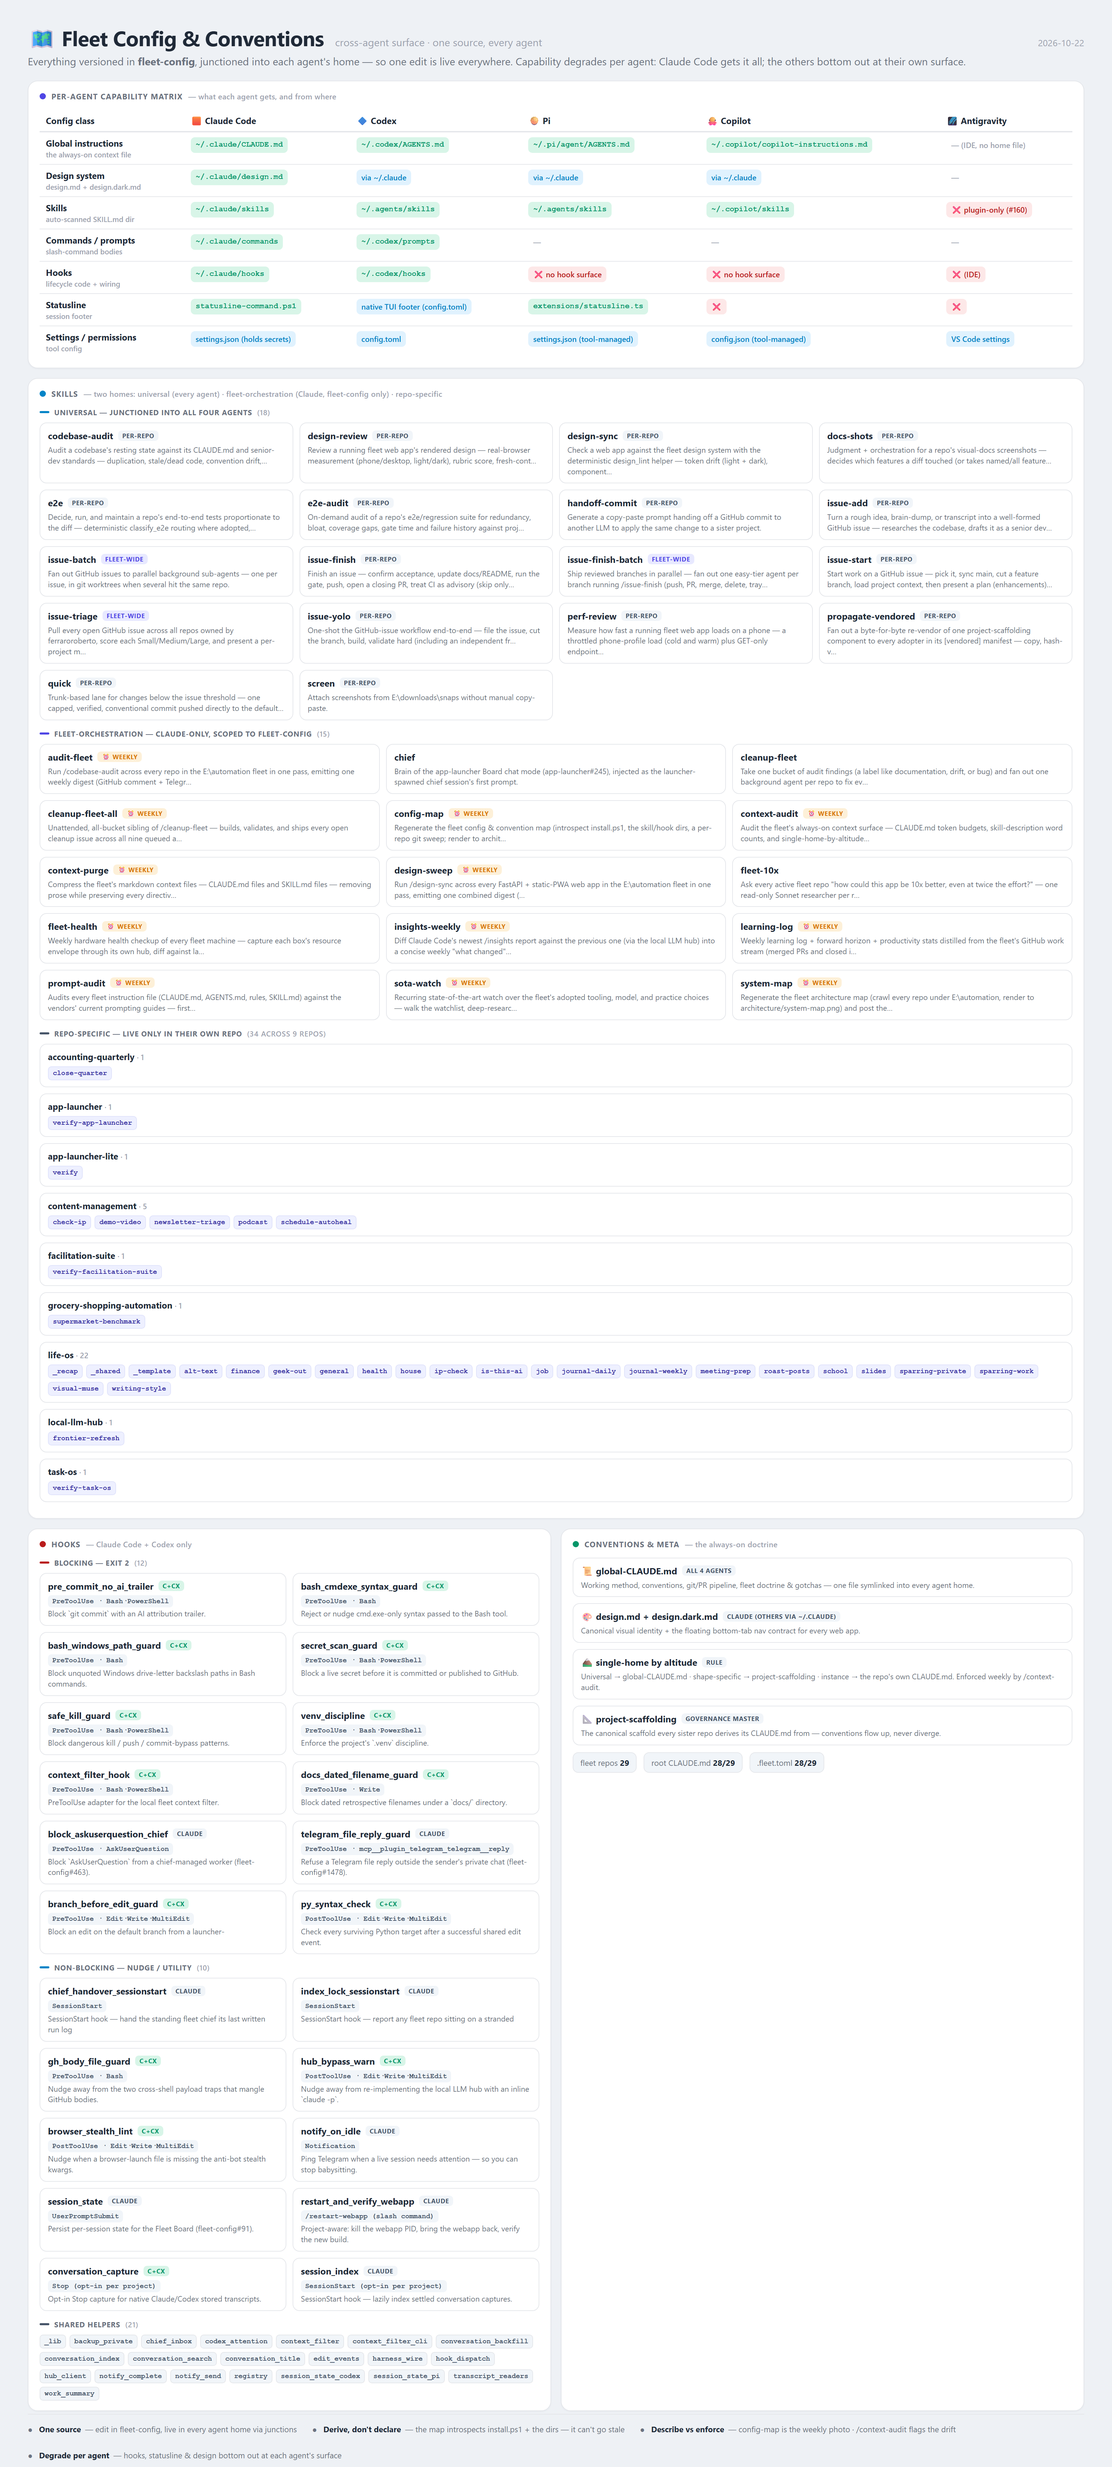
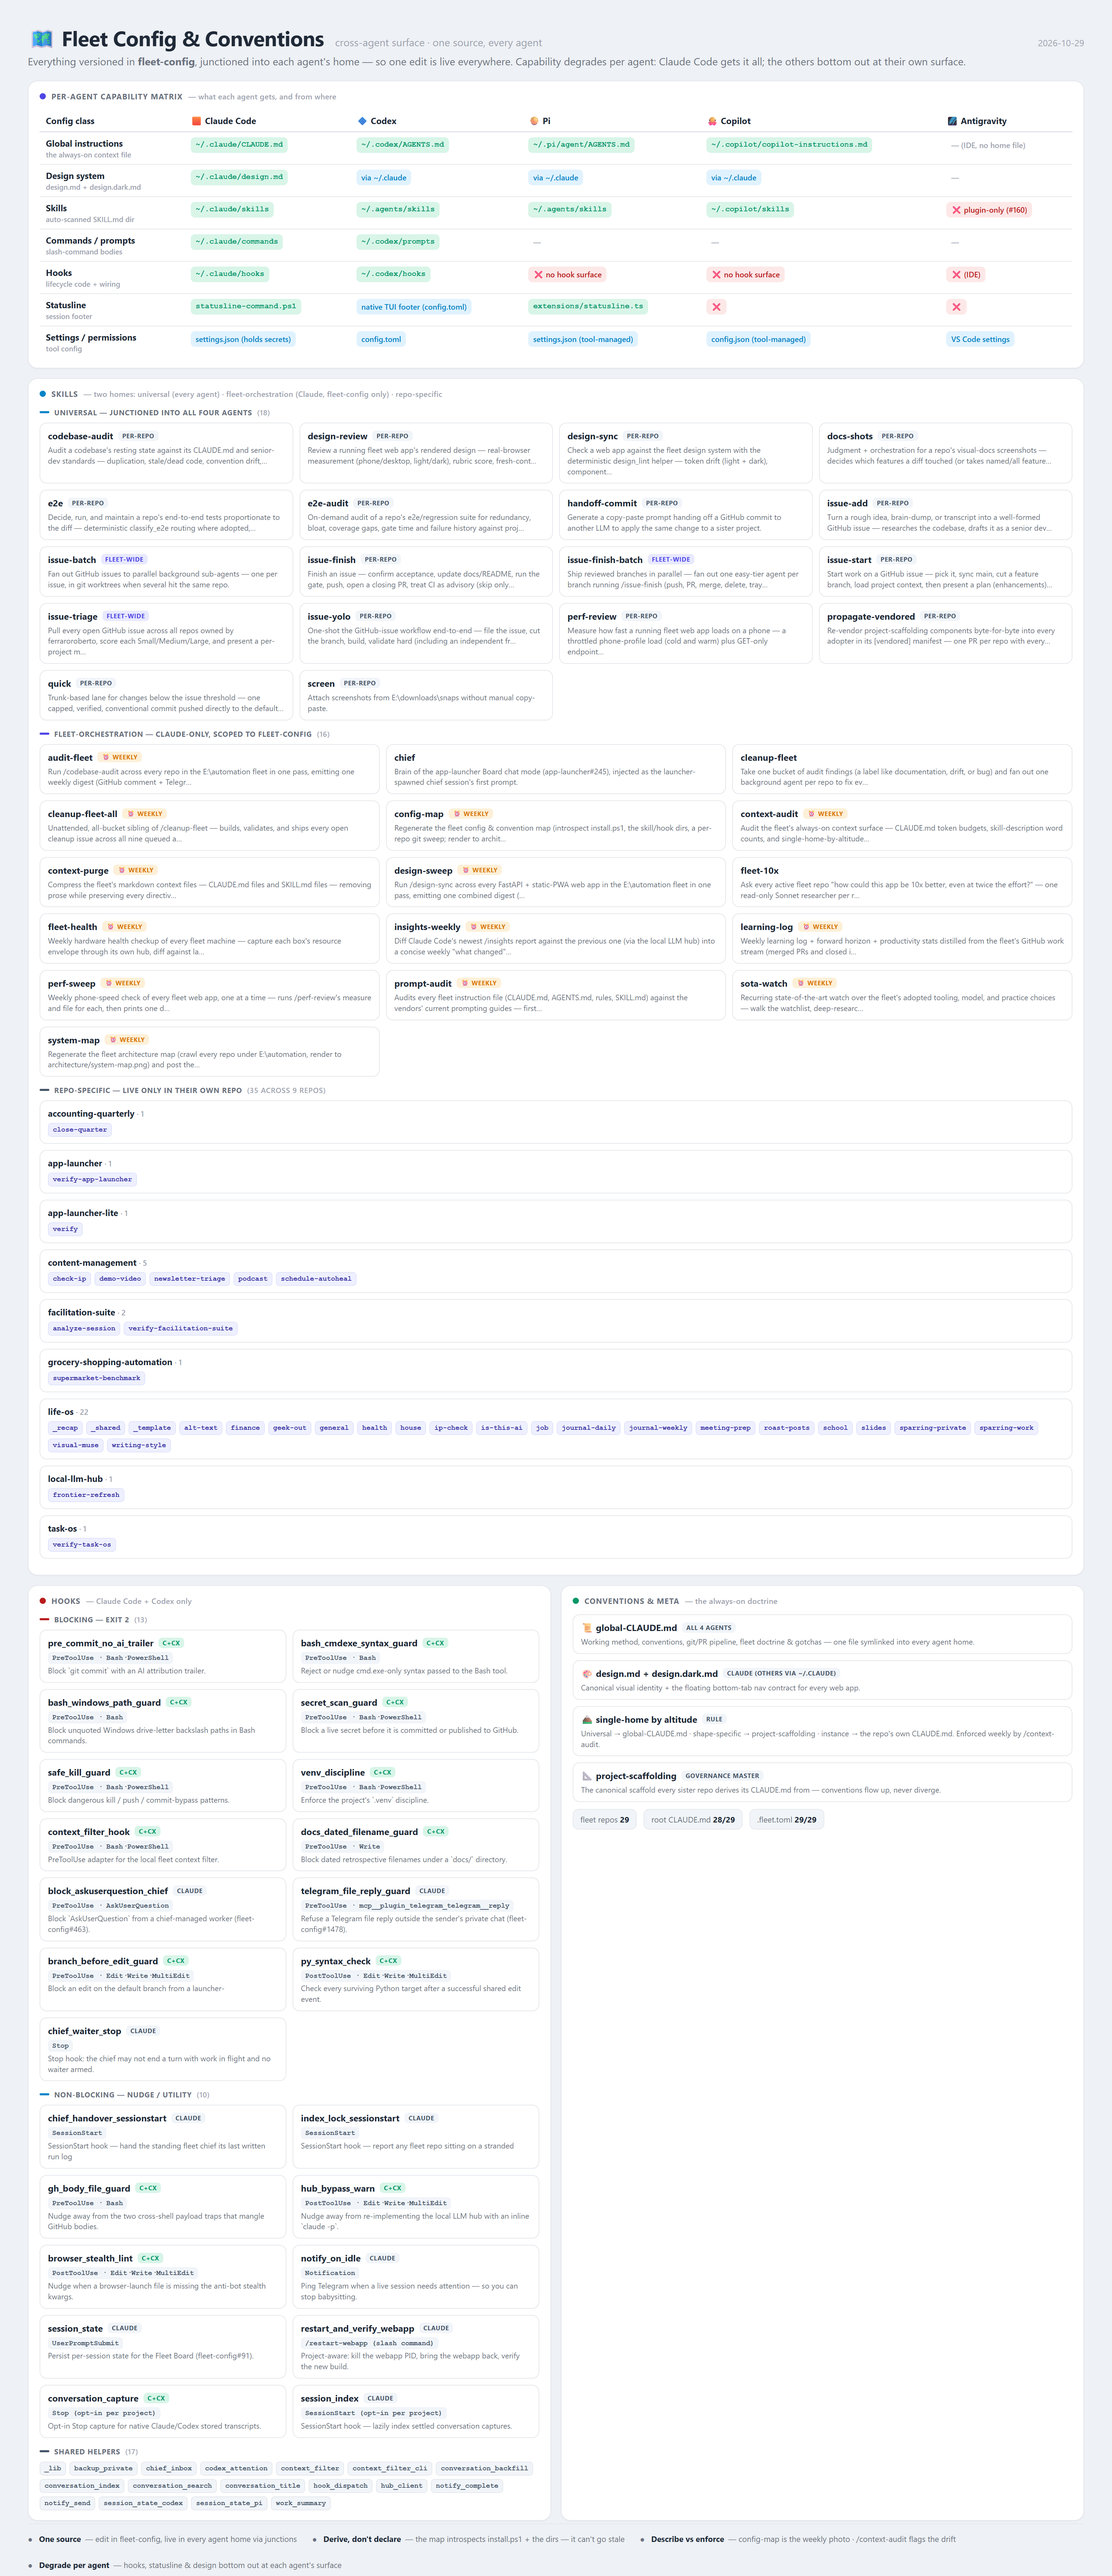
docs: refresh config map (2026-10-30)

diff --git a/architecture/config.data.js b/architecture/config.data.js
@@ -193,7 +193,7 @@ window.CONFIG = {
     },
     {
       "nm": "propagate-vendored",
-      "ds": "Fan out a byte-for-byte re-vendor of one project-scaffolding component to every adopter in its [vendored] manifest — copy, hash-v…",
+      "ds": "Re-vendor project-scaffolding components byte-for-byte into every adopter in its [vendored] manifest — one PR per repo with every…",
       "scope": "repo"
     },
     {
@@ -269,6 +269,11 @@ window.CONFIG = {
       "sched": true
     },
     {
+      "nm": "perf-sweep",
+      "ds": "Weekly phone-speed check of every fleet web app, one at a time — runs /perf-review's measure and file for each, then prints one d…",
+      "sched": true
+    },
+    {
       "nm": "prompt-audit",
       "ds": "Audits every fleet instruction file (CLAUDE.md, AGENTS.md, rules, SKILL.md) against the vendors' current prompting guides — first…",
       "sched": true
@@ -316,6 +321,7 @@ window.CONFIG = {
     {
       "repo": "facilitation-suite",
       "items": [
+        "analyze-session",
         "verify-facilitation-suite"
       ]
     },
@@ -500,6 +506,13 @@ window.CONFIG = {
       "ds": "Persist per-session state for the Fleet Board (fleet-config#91)."
     },
     {
+      "nm": "chief_waiter_stop",
+      "ev": "Stop",
+      "block": true,
+      "reach": "Claude only",
+      "ds": "Stop hook: the chief may not end a turn with work in flight and no waiter armed."
+    },
+    {
       "nm": "restart_and_verify_webapp",
       "ev": "/restart-webapp (slash command)",
       "block": false,
@@ -563,14 +576,6 @@ window.CONFIG = {
       "ds": "Set or clear the owner's title on one captured conversation (fleet-config#1348)."
     },
     {
-      "nm": "edit_events",
-      "ds": "Shared normalized edit view + ``apply_patch`` envelope parsing (fleet-config#819)."
-    },
-    {
-      "nm": "harness_wire",
-      "ds": "The hooks' multi-harness wire protocol (split from `_lib.py`, fleet-config#931)."
-    },
-    {
       "nm": "hook_dispatch",
       "ds": "Run several hook modules in one process and answer once (fleet-config#1274)."
     },
@@ -587,20 +592,12 @@ window.CONFIG = {
       "ds": "Fleet-wide Telegram notifier - fire a real, bot-identity notification."
     },
     {
-      "nm": "registry",
-      "ds": "``projects.toml`` registry + notify-target routing (fleet-config#819)."
-    },
-    {
       "nm": "session_state_codex",
       "ds": "Codex adapter for the Fleet Board session-state writer (fleet-config#349)."
     },
     {
       "nm": "session_state_pi",
       "ds": "Pi adapter for the Fleet Board session-state writer (fleet-config#349)."
-    },
-    {
-      "nm": "transcript_readers",
-      "ds": "Native transcript readers; hook-envelope normalization remains in _lib."
     },
     {
       "nm": "work_summary",
@@ -636,7 +633,7 @@ window.CONFIG = {
   "coverage": {
     "total": 29,
     "claude_md": "28/29",
-    "fleet_toml": "28/29"
+    "fleet_toml": "29/29"
   },
   "principles": [
     [
